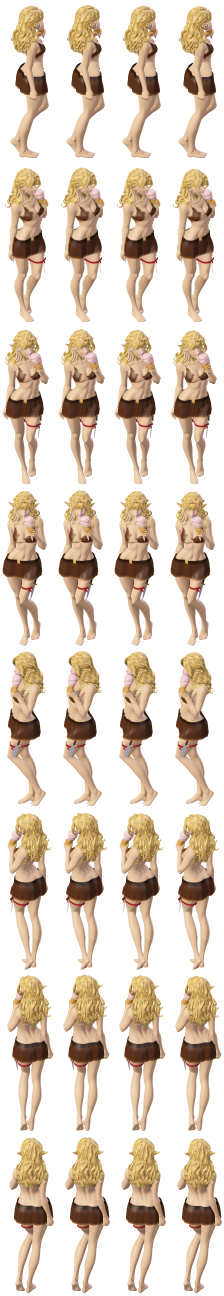
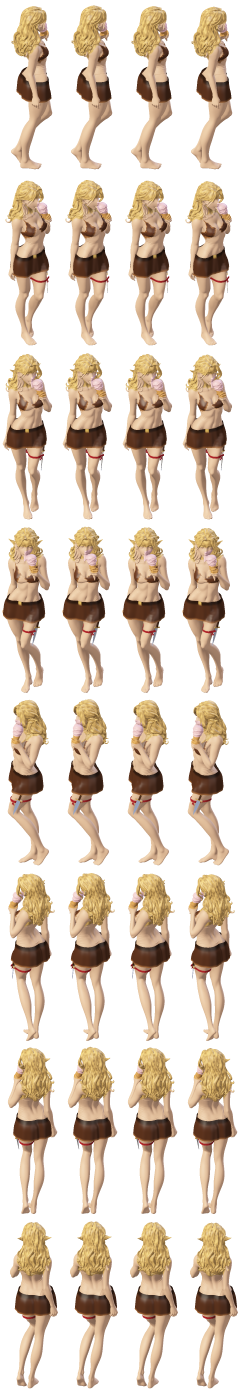
Elyra do tamanho do personagem, passeando pela praça e ruas do centro com animação de caminhada; NPC para enquanto conversa
Claude-Session: https://claude.ai/code/session_01SXT9RkSNWGpum4vy2atWQs

diff --git a/ferramentas/elfa/shade.py b/ferramentas/elfa/shade.py
@@ -2,7 +2,7 @@ import numpy as np, json, os, sys, math
 from numba import njit
 from PIL import Image
 
-c = np.load('cena.npz'); TP, TN, TC, TS = c['TP'], c['TN'], c['TC'], c['TS']
+c = np.load('cena.npz'); TP, TN, TC, TS, ARMC, LADO = c['TP'], c['TN'], c['TC'], c['TS'], c['ARMC'], c['LADO']
 TN = TN / (np.linalg.norm(TN, axis=2, keepdims=True) + 1e-12)
 
 
@@ -106,8 +106,31 @@ LUZES = [(blender_sun(50, 0, -55), np.array([1.0, 0.86, 0.68]) * 1.9),
          (blender_sun(70, 0, 40), np.array([0.7, 0.6, 0.55]) * 0.35)]
 
 
-def render_dir(model_yaw, breath, size=1024, pxu=6.9, foot=(0.5, 0.7832), el_deg=30):
-    tp = TP.copy()
+def pernas(tp, tn, fase, amp=math.radians(24)):
+    """Caminhada sem esqueleto: cada perna gira em volta do quadril (eixo lateral), com peso que
+    vai de 0 na virilha a 1 na coxa; braços ficam parados. O corpo sobe e desce um pouco."""
+    tp = tp.copy(); tn = tn.copy()
+    zz = tp[..., 2]
+    w = np.clip((46.0 - zz) / 8.0, 0, 1); w = w * w * (3 - 2 * w)
+    w = np.where(ARMC, 0.0, w)
+    lado = LADO
+    ang = amp * math.sin(fase) * lado * w
+    py, pz = -3.0, 45.0
+    dy = tp[..., 1] - py; dz = tp[..., 2] - pz
+    ca, sa = np.cos(ang), np.sin(ang)
+    tp[..., 1] = py + dy * ca + dz * sa
+    tp[..., 2] = pz - dy * sa + dz * ca
+    ny, nz = tn[..., 1].copy(), tn[..., 2].copy()
+    tn[..., 1] = ny * ca + nz * sa; tn[..., 2] = -ny * sa + nz * ca
+    # pé mais baixo encosta no chão; sobe e desce no passo
+    tp[..., 2] += -tp[..., 2].min() + 0.6 * abs(math.cos(fase))
+    return tp, tn
+
+
+def render_dir(model_yaw, breath, size=1024, pxu=7.39, foot=(0.5, 0.7832), el_deg=30, fase=None):
+    tp = TP.copy(); TNl = TN
+    if fase is not None:
+        tp, TNl = pernas(tp, TN, fase)
     up = tp[..., 2] > 50
     tp[..., 2] = np.where(up, 50 + (tp[..., 2] - 50) * breath, tp[..., 2])
     feet = TP.reshape(-1, 3); fc = feet[feet[:, 2] < 2].mean(0); fc[2] = 0
@@ -116,7 +139,7 @@ def render_dir(model_yaw, breath, size=1024, pxu=6.9, foot=(0.5, 0.7832), el_deg
     Rz = np.array([[math.cos(yaw), -math.sin(yaw), 0], [math.sin(yaw), math.cos(yaw), 0], [0, 0, 1]])
     Rx = np.array([[1, 0, 0], [0, math.cos(el), -math.sin(el)], [0, math.sin(el), math.cos(el)]])
     R = Rx @ Rz
-    v = tp @ R.T; n = TN @ R.T
+    v = tp @ R.T; n = TNl @ R.T
     P = np.empty_like(v)
     P[..., 0] = v[..., 0] * pxu + size * foot[0]
     P[..., 1] = -v[..., 2] * pxu + size * foot[1]
@@ -149,29 +172,29 @@ def render_dir(model_yaw, breath, size=1024, pxu=6.9, foot=(0.5, 0.7832), el_deg
 
 if __name__ == '__main__':
     DIRS = ["E", "SE", "S", "SW", "W", "NW", "N", "NE"]
-    NQ = 4
-    frames = {}
-    for di, dname in enumerate(DIRS):
-        a = di * math.pi / 4.0
-        gx, gy = math.cos(a), math.sin(a) * 2.0
-        yaw = math.atan2(-gy, gx) + math.pi / 2.0
-        for q in range(NQ):
-            br = 1 + 0.008 * math.sin(2 * math.pi * q / NQ)
-            frames[(di, q)] = render_dir(yaw, br)
-        print(dname, flush=True)
-    # recorte comum
-    al = np.stack([f[..., 3] for f in frames.values()]).max(0)
-    ys = np.where(al.max(1) > 0)[0]; xs = np.where(al.max(0) > 0)[0]
-    y0, y1, x0, x1 = ys.min() - 2, ys.max() + 3, xs.min() - 2, xs.max() + 3
-    fw, fh = x1 - x0, y1 - y0
-    sheet = np.zeros((fh * len(DIRS), fw * NQ, 4), np.uint8)
-    for (di, q), f in frames.items():
-        sheet[di * fh:(di + 1) * fh, q * fw:(q + 1) * fw] = f[y0:y1, x0:x1]
     out = sys.argv[1] if len(sys.argv) > 1 else 'saida'
     os.makedirs(out, exist_ok=True)
-    Image.fromarray(sheet).save(os.path.join(out, 'idle.png'), optimize=True)
-    pe = [round(128.0 - x0, 1), round(200.5 - y0, 1)]
-    meta = {"tamanho": 256, "pe_quadro": [128.0, 200.5],
-            "anims": {"idle": {"n": NQ, "quadro": [int(fw), int(fh)], "pe": pe, "ac": False}}, "acento": False}
+    meta = {"tamanho": 256, "pe_quadro": [128.0, 200.5], "anims": {}, "acento": False}
+    for anim, NQ in (("idle", 4), ("walk", 8)):
+        frames = {}
+        for di, dname in enumerate(DIRS):
+            a = di * math.pi / 4.0
+            gx, gy = math.cos(a), math.sin(a) * 2.0
+            yaw = math.atan2(-gy, gx) + math.pi / 2.0
+            for q in range(NQ):
+                if anim == "idle":
+                    frames[(di, q)] = render_dir(yaw, 1 + 0.008 * math.sin(2 * math.pi * q / NQ))
+                else:
+                    frames[(di, q)] = render_dir(yaw, 1.0, fase=2 * math.pi * q / NQ)
+        al = np.stack([f[..., 3] for f in frames.values()]).max(0)
+        ys = np.where(al.max(1) > 0)[0]; xs = np.where(al.max(0) > 0)[0]
+        y0, y1, x0, x1 = ys.min() - 2, ys.max() + 3, xs.min() - 2, xs.max() + 3
+        fw, fh = int(x1 - x0), int(y1 - y0)
+        sheet = np.zeros((fh * len(DIRS), fw * NQ, 4), np.uint8)
+        for (di, q), f in frames.items():
+            sheet[di * fh:(di + 1) * fh, q * fw:(q + 1) * fw] = f[y0:y1, x0:x1]
+        Image.fromarray(sheet).save(os.path.join(out, anim + '.png'), optimize=True)
+        meta["anims"][anim] = {"n": NQ, "quadro": [fw, fh], "pe": [float(128.0 - x0), float(200.5 - y0)], "ac": False}
+        print(anim, flush=True)
     json.dump(meta, open(os.path.join(out, 'sprites.json'), 'w'))
     print(meta)

diff --git a/ferramentas/elfa/final.py b/ferramentas/elfa/final.py
@@ -170,5 +170,21 @@ TP = np.concatenate([U[F], ET, SKT])
 TN = np.concatenate([vn[F], np.repeat(EN[:, None], 3, 1), SKN])
 TC = np.concatenate([col[F], np.repeat(EC[:, None], 3, 1), SKC])
 TS = np.concatenate([spec[F][..., None].repeat(3, 2), np.repeat(ES[:, None, None], 3, 1).repeat(3, 2), np.full((len(SKT), 3, 3), 0.35)])
-np.savez('cena.npz', TP=TP, TN=TN, TC=TC, TS=TS)
+from scipy.sparse.csgraph import connected_components
+_ok = (z < 42.5) & ~arm
+_e = np.concatenate([F[:, [0, 1]], F[:, [1, 2]], F[:, [2, 0]]]); _m = _ok[_e[:, 0]] & _ok[_e[:, 1]]
+_g = sp.coo_matrix((np.ones(_m.sum()), (_e[_m, 0], _e[_m, 1])), shape=(nv, nv))
+_n, _lab = connected_components(_g, directed=False)
+_lab[~_ok] = -1
+_sz = np.bincount(_lab[_lab >= 0]); _top = np.argsort(-_sz)[:2]
+lado_v = np.zeros(nv)
+for c_ in _top:
+    lado_v[_lab == c_] = np.sign(x[_lab == c_].mean())
+print('pernas', _sz[_top], [np.sign(x[_lab == c_].mean()) for c_ in _top])
+# vértices da virilha (z>=42.5) seguem o lado pela posição
+lado_v[(lado_v == 0) & ~arm] = np.where(x[(lado_v == 0) & ~arm] > -0.4, 1, -1)
+# extras (fita e adaga) ficam na perna +x
+LADO = np.concatenate([lado_v[F], np.ones((len(ET), 3)), np.zeros((len(SKT), 3))])
+ARMC = np.concatenate([arm[F], np.zeros((len(ET), 3), bool), np.zeros((len(SKT), 3), bool)])
+np.savez('cena.npz', TP=TP, TN=TN, TC=TC, TS=TS, ARMC=ARMC, LADO=LADO)
 print('tris', len(TP), 'extra', len(ET))
